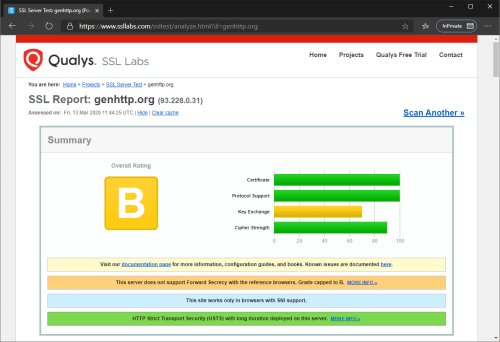
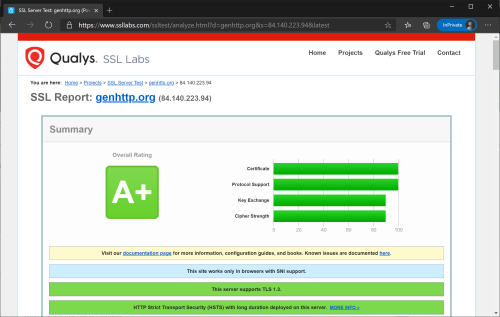
Update SSL Labs status

Changed region(s): [[0.0, 0.0, 1.0, 1.0], [0.21, 0.4543, 0.33, 0.7098]]

diff --git a/Project/Pages/Features.md b/Project/Pages/Features.md
@@ -28,8 +28,8 @@ Applications developed with the GenHTTP SDK are optimized for low disk space and
 
 ## Security
 
-The GenHTTP webserver uses the default security mechanisms that ship with .NET 5. Due to some limitations there,
-the overall level of security as reported by SSL Labs is currently capped to grade B.
+The GenHTTP webserver uses the default security mechanisms that ship with .NET 5. This results in
+a good security grade of A+ as reported by SSL Labs.
 
 ![Security analysis of the GenHTTP website](/images/ssl_labs.png)
 
